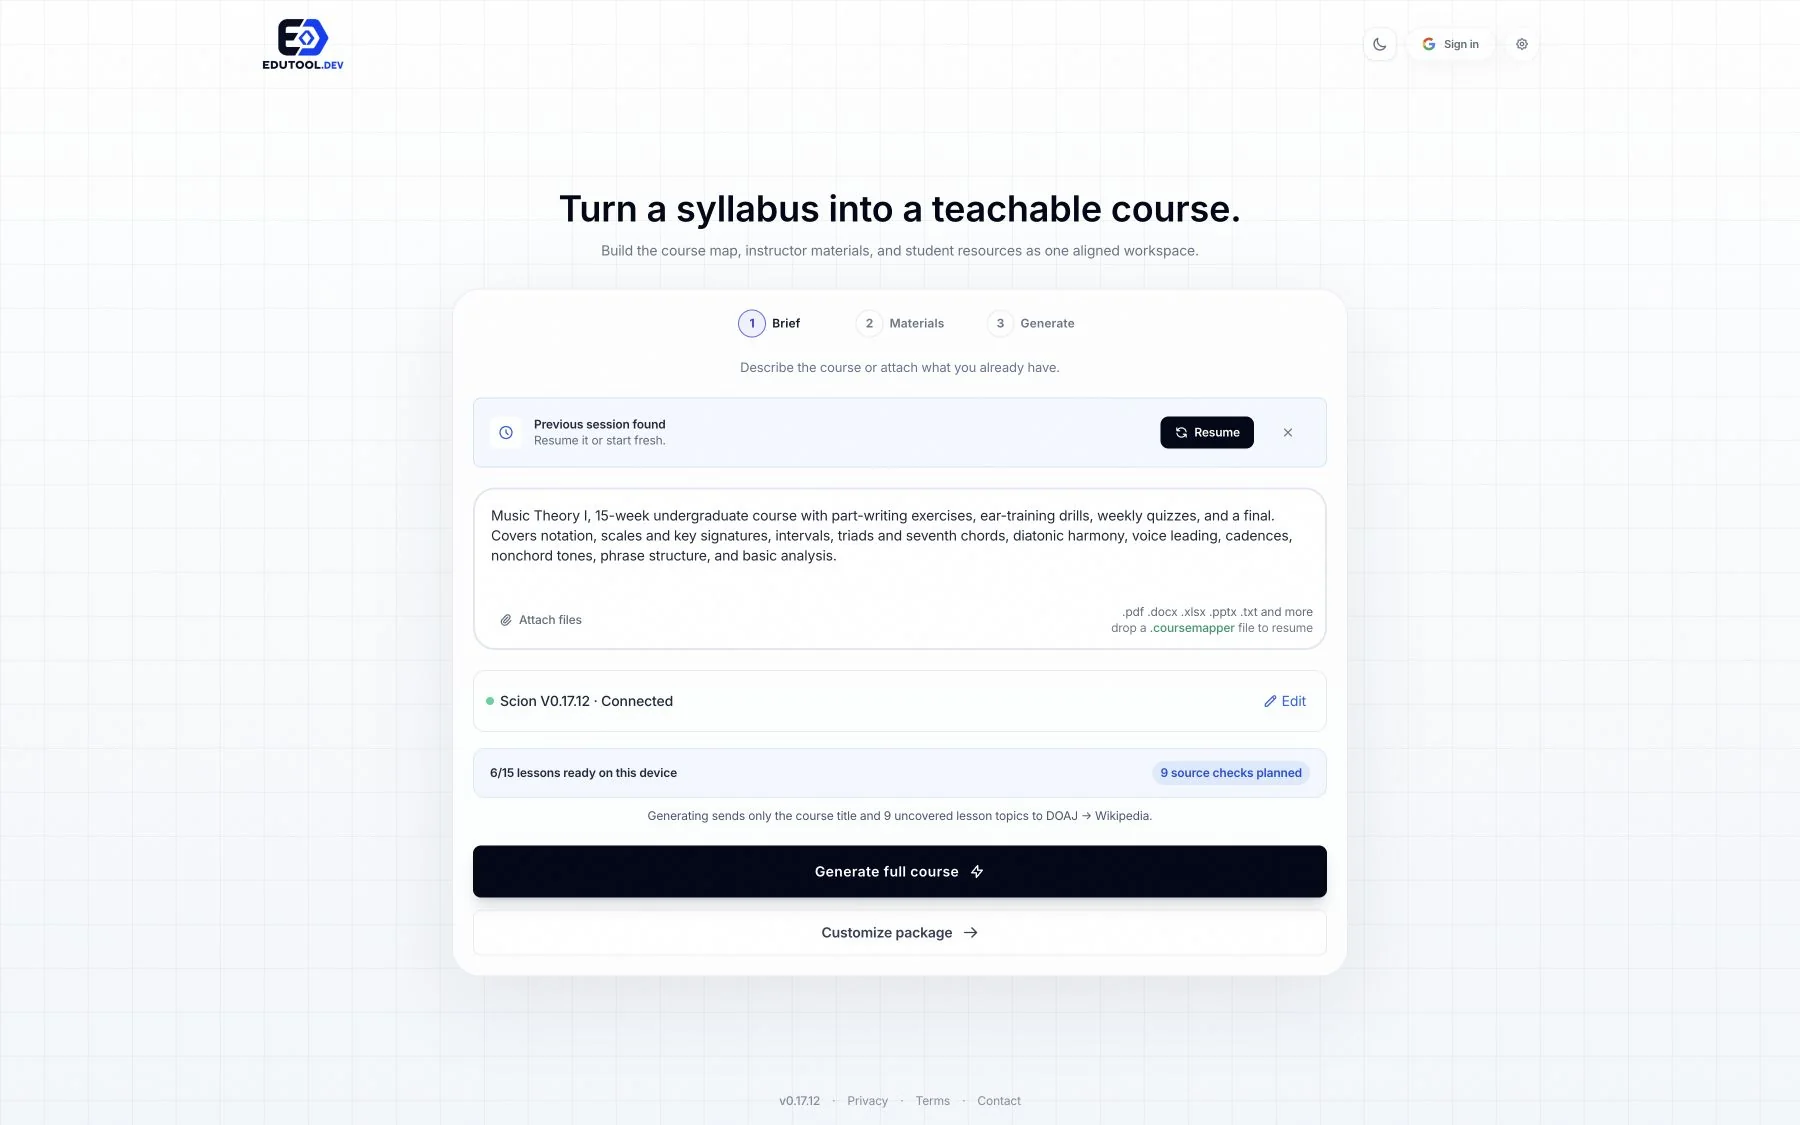
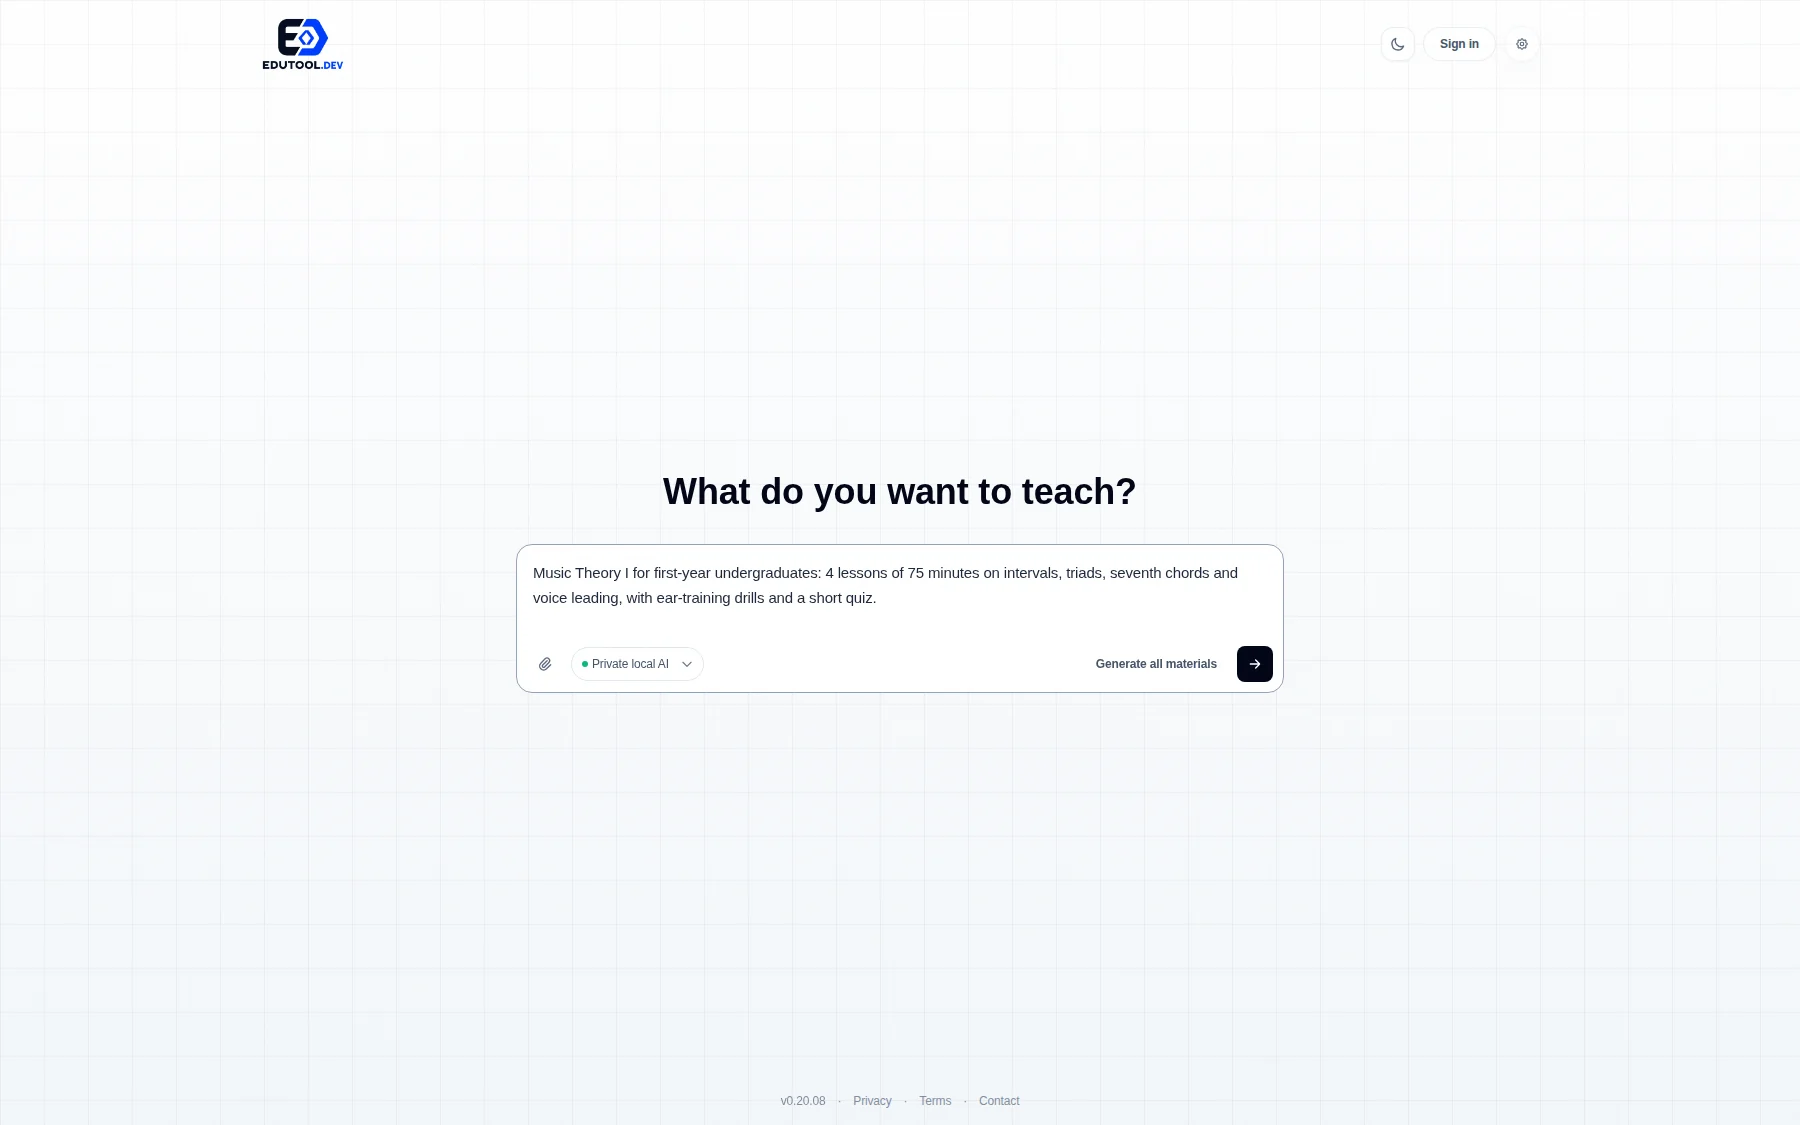
Update EduTool for v0.20.08
- New screenshots of the current interface, captured from the
  CourseMapper source: the one-box homepage, the single setup page,
  a lesson plan in the full-width workspace, and a slide deck
- Rewrite the page around what v0.20.08 does: free and in-browser,
  ten linked materials, quizzes built from the teacher's own material,
  computed calculation answers, Chinese descriptions, and exports
- Scion version V0.18.7 -> V0.20.08; limits now state the published
  caveats on source attribution and classroom readiness

Claude-Session: https://claude.ai/code/session_01UogXC9gtLFYgQeAVPAEqNc

diff --git a/app/projects.ts b/app/projects.ts
@@ -68,10 +68,10 @@ export const projects: Project[] = [
     externalUrl: "https://edutool.dev",
     externalLabel: "Open EduTool.dev",
     tagline: "A course is a system. Build the whole thing.",
-    description: "One course model. Ten connected deliverables. Course Mapper turns a syllabus into an editable system—then Scion checks the logic, evidence, and alignment.",
-    note: "Built for instructors who need a course—not a wall of AI text.",
-    hero: { src: "/media/projects/edutool-live.png", displaySrc: "/media/optimized/edutool-live.webp", alt: "EduTool course generator with the brief, course settings, and generation workflow visible", width: 1800, height: 1125, position: "50% 52%", zoom: 1.42 },
-    livePreview: { url: "https://edutool.dev", label: "Build a course here", note: "Build, inspect, and edit a complete course in your browser." },
+    description: "Describe a course once. EduTool builds ten linked materials, from the course map to the quiz bank, and Scion checks them against what you gave it. Free, and it runs in your browser.",
+    note: "Built for teachers who need a course—not a wall of AI text.",
+    hero: { src: "/media/projects/edutool-live.png", displaySrc: "/media/optimized/edutool-live.webp", alt: "EduTool homepage asking “What do you want to teach?” with a music theory course description typed in", width: 1800, height: 1125, position: "50% 49%", zoom: 2.2 },
+    livePreview: { url: "https://edutool.dev", label: "Build a course here", note: "Describe a course, set lessons and minutes, then edit every material in your browser. Free, no account needed." },
     caseStudy: {
       summary: "Generate broadly. Stay anchored to one brief.",
       problem: "AI can generate pages of course content and still fail to build a course. Objectives drift. Assessments disconnect. Evidence gets overstated.",
@@ -79,43 +79,47 @@ export const projects: Project[] = [
       collaboration: "Independent. Designed and built end to end.",
       decisions: [
         "One canonical model drives every deliverable.",
-        "Deterministic compile, check, and repair passes follow generation.",
-        "Local-first editing keeps evidence gaps and review status visible.",
+        "The teacher’s own poems, dialogues, and data stay verbatim; calculation answers are computed in code.",
+        "Say each thing once: one description box, one setup page, one full-width workspace.",
       ],
       constraints: [
         "Early artifacts contradicted one another.",
-        "Confident language outran the source material.",
-        "Automation could never make the course opaque or hard to edit.",
+        "Local generation can still misattribute sources, so shared tasks may need teacher review.",
+        "Passing software checks is not proof of classroom readiness—and the site says so.",
       ],
       results: [
-        "Live at edutool.dev.",
-        "Scion V0.18.7 generates and revises 10 connected deliverables.",
-        "One model now drives review, repair, editing, and export.",
+        "Live at edutool.dev, free, in any browser.",
+        "v0.20.08 builds all ten materials from one course description, in English or Chinese.",
+        "Exports to Word, PDF, PowerPoint, Google Docs, Sheets, and Slides, or one course ZIP.",
       ],
       built: [
-        "Course schema, generation pipeline, compiler, and cross-artifact checks.",
-        "Scion agent, editors, quality report, evidence flow, and exports.",
+        "Course schema, source compiler, generation pipeline, and cross-material checks.",
+        "Scion assistant, ten material editors, PDF renderer, and exports.",
         "UX writing, interaction system, visual design, and release.",
       ],
     },
     model: {
       eyebrow: "THE COURSE INTELLIGENCE LAYER",
       title: "Meet Scion",
-      version: "V0.18.7",
-      description: "Scion generates, checks, and repairs the course as one connected system—always anchored to the brief and evidence.",
+      version: "V0.20.08",
+      description: "Scion runs privately in your browser. It writes, checks, and repairs the course as one connected system, anchored to your description and your material.",
       principles: [
-        { title: "Brief-anchored", body: "The original intent stays active through every generation and revision." },
+        { title: "Brief-anchored", body: "Your course description stays in force through every generation and revision." },
         { title: "System-aware", body: "Every artifact is reasoned about as part of the same course." },
-        { title: "Evidence-honest", body: "Source gaps and review needs stay visible." },
+        { title: "Evidence-honest", body: "Sources, gaps, and review needs stay visible. Nothing is invented to fill them." },
         { title: "Human-editable", body: "Inspect one item. Repair the system. Edit everything." },
       ],
     },
     features: [
-      { title: "10 aligned deliverables", body: "One model keeps objectives, lessons, assessments, and exports in sync." },
-      { title: "Course-aware agent", body: "Inspect, explain, and revise the whole workspace in conversation." },
-      { title: "Local-first Scion", body: "Private browser authoring with evidence-led compilation." },
+      { title: "Ten linked materials", body: "Course map, syllabus, lesson plans, slides, assignments, rubrics, discussions, quizzes, study guides, and FAQ stay in sync." },
+      { title: "Quizzes from your material", body: "Paste a poem, a dialogue, or your data; the questions use it. Calculation answers are computed, not guessed." },
+      { title: "Free and private", body: "Scion runs in your browser after a one-time download. Public-source research only when you switch it on." },
     ],
-    media: [{ type: "image", src: "/media/projects/edutool-generation.png", displaySrc: "/media/optimized/edutool-generation.webp", alt: "EduTool generation workspace showing Scion, the quiz bank, quality report, and export status", caption: "Scion refining one connected course with evidence and review status in view.", width: 1275, height: 717 }],
+    media: [
+      { type: "image", src: "/media/projects/edutool-setup.png", displaySrc: "/media/optimized/edutool-setup.webp", alt: "EduTool setup page with lesson, minute, and quiz steppers above the material checklist", caption: "One setup page: lessons, minutes, and quiz size, then the materials.", width: 1080, height: 720 },
+      { type: "image", src: "/media/projects/edutool-generation.png", displaySrc: "/media/optimized/edutool-generation.webp", alt: "EduTool workspace showing a lesson plan with objectives, source evidence, a timed warm-up, and the session outline", caption: "A full-width workspace. Assistant and Export open as drawers only when needed.", width: 1800, height: 1125 },
+      { type: "image", src: "/media/projects/edutool-slides.png", displaySrc: "/media/optimized/edutool-slides.webp", alt: "EduTool slide deck built from the same lesson, with theme choices and slide thumbnails", caption: "Slides built from the same lessons, in five themes, ready to present or export.", width: 1800, height: 1125 },
+    ],
   },
   {
     slug: "surge-method",
